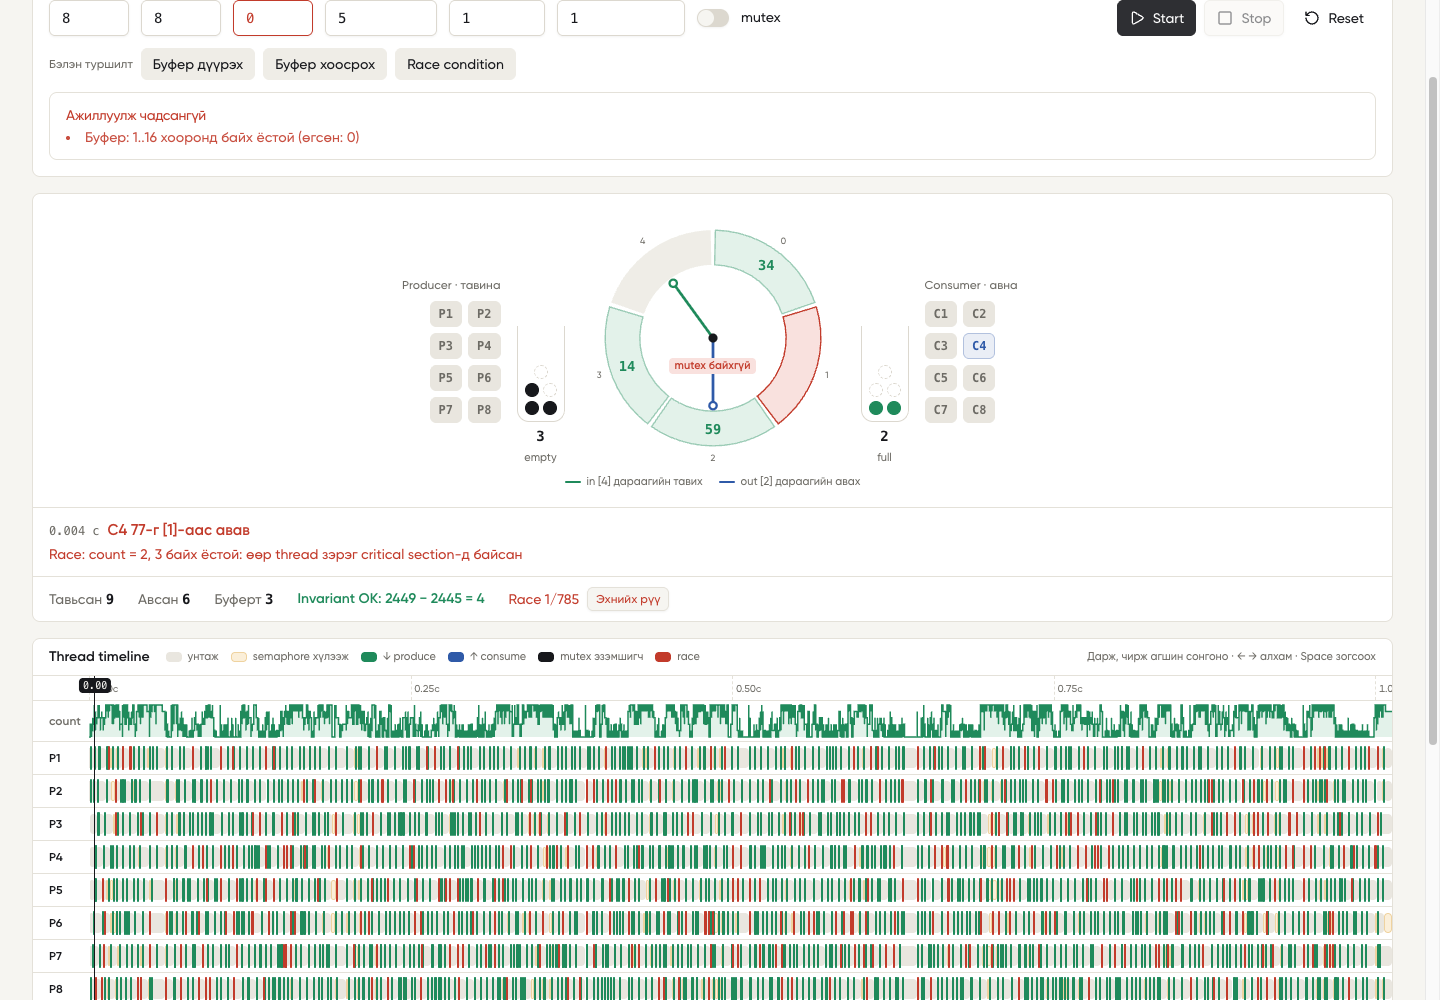
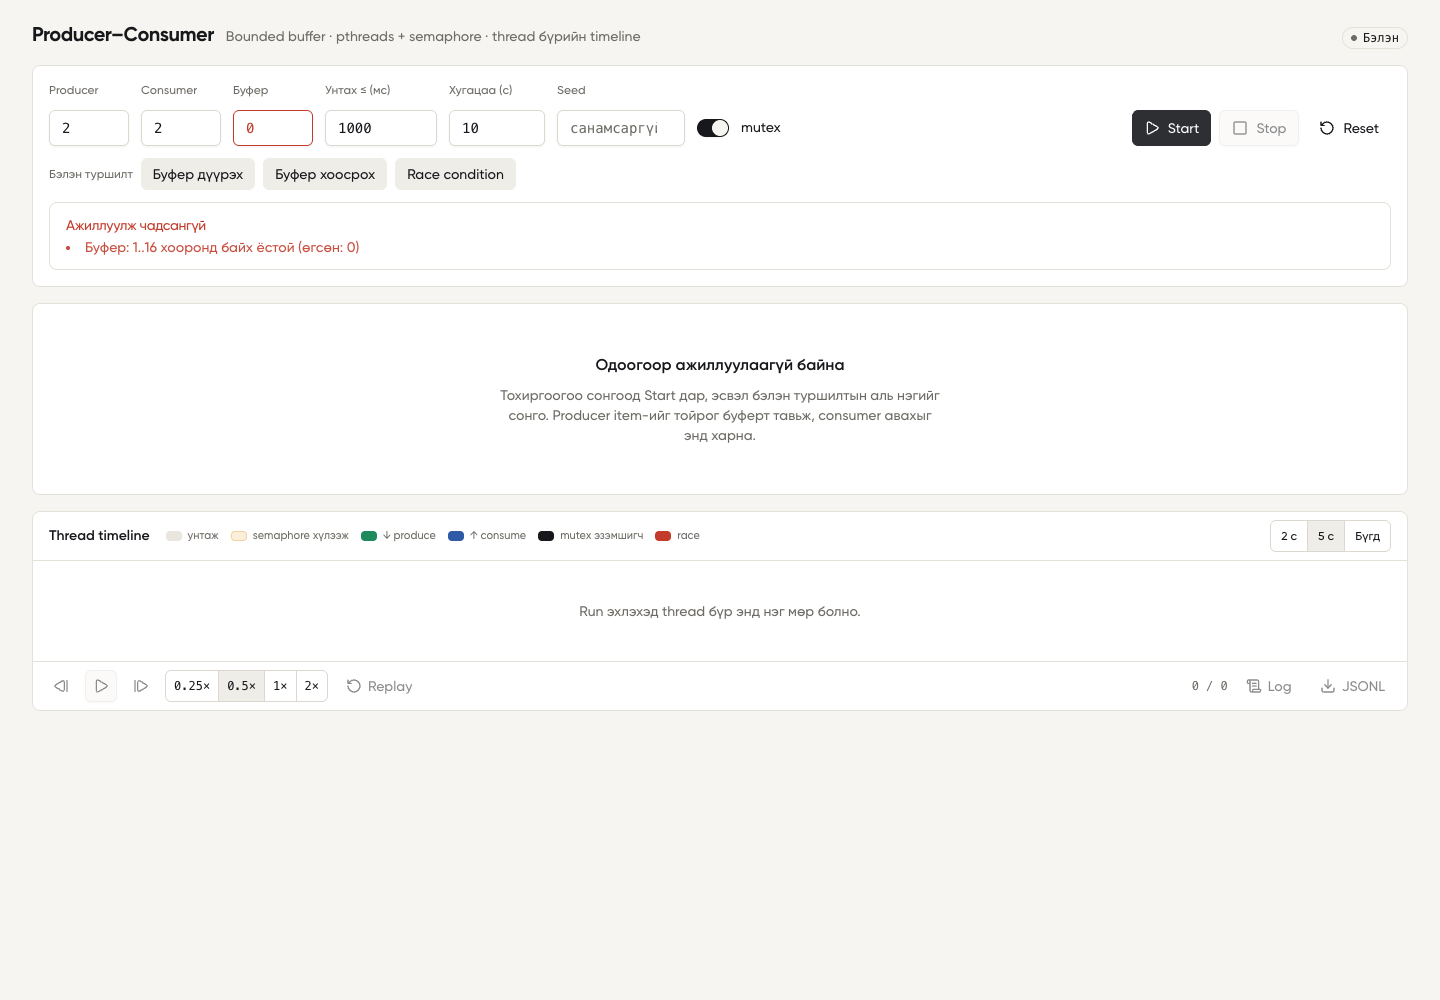
fix: update Manual and screenshots for new playback

diff --git a/docs/Manual.md b/docs/Manual.md
@@ -41,7 +41,9 @@ npm run dev
 - **Stop**: ажиллаж буй C процессыг зогсооно, тэр хүртэлх event-үүд үлдэнэ.
 - **Reset**: run-ийг зогсоож дэлгэцийг цэвэрлэнэ.
 - Timeline дээр **дарж эсвэл чирж** аль ч агшин руу очно. `←` `→` нэг event, `Shift + ←/→` 10 event, `Space` pause/play.
-- Доод мөр: ⏮ ⏯ ⏭ алхам, **Live** (run явж байхад хамгийн сүүлийн event рүү буцах), **0.25× 1× 2× 5×** replay хурд, **Replay**, **Log** (event-ийн жагсаалт), **JSONL** (бүх event-ийг файлаар татах).
+- Доод мөр: өмнөх / тоглуулах-зогсоох / дараагийн event, **0.25× 0.5× 1× 2×** тоглуулах хурд (анхдагч 0.5×, 1× = бодит хугацаа), **Replay**, **Log** (event-ийн жагсаалт), **JSONL** (бүх event-ийг файлаар татах).
+- C core бодит хугацаагаар ажилладаг, дэлгэц түүнийг сонгосон хурдаар араас нь тоглуулна. Core илгээсэн боловч хараахан тоглогдоогүй хэсэг timeline дээр бүдэг харагдана.
+- Timeline-ий баруун дээд буланд **2 с / 5 с / Бүгд** цонх: 2 с, 5 с үед timeline playhead-ийг дагаж гүйнэ.
 
 ### Дүрслэлийн тэмдэг, өнгө, төлөв
 **Буферийн анимаци (дээд хэсэг)**
@@ -57,7 +59,7 @@ npm run dev
 |---|---|
 | саарал зурвас | унтаж байна (`sleep`) |
 | шар зурвас | semaphore хүлээж байна (`wait_empty`: буфер дүүрэн, `wait_full`: буфер хоосон) |
-| ногоон `↓27` | produce: 27-г буферт тавив |
+| ногоон `↓27` | produce: 27-г буферт тавив (ойрхон олон event байвал нарийн зураас болно, хулганаар заахад дэлгэрэнгүй гарна) |
 | цэнхэр `↑27` | consume: 27-г буферээс авав |
 | хар `P2` (mutex мөр) | mutex-ийг тэр агшинд эзэмшсэн thread |
 | улаан | race: тухайн агшинд өөр thread зэрэг critical section-д байсан |
@@ -147,6 +149,6 @@ curl -sN 'http://localhost:3000/api/run?duration=1&producers=2&consumers=2&buffe
 
 ### Known issues
 - Нэг run-д 20 000-аас олон event ирвэл core-ийг зогсоож анхааруулна (`Унтах ≤` 0–5 мс, олон thread үед).
-- Event-үүд олон (600+) үед timeline-ийн шошго нуугдаж нарийн зураас болно, item нисэх анимаци унтарна.
+- Event-үүд олон (600+) үед timeline-ийн шошго нуугдаж нарийн зураас болно, item нисэх анимаци унтарна. Ойрхон event-үүдийн шошгыг харахын тулд 2 с цонх ашиглана.
 - Mutex-гүй үед log-ийн дараалал өөрөө бодит дараалалтай яг таарахгүй (log бичих нь critical section-оос гадна), тиймээс race-ийг `count`-ийн зөрүүгээр илрүүлдэг.
 - Нэг машин дээр зэрэг 4 хүртэл run.
